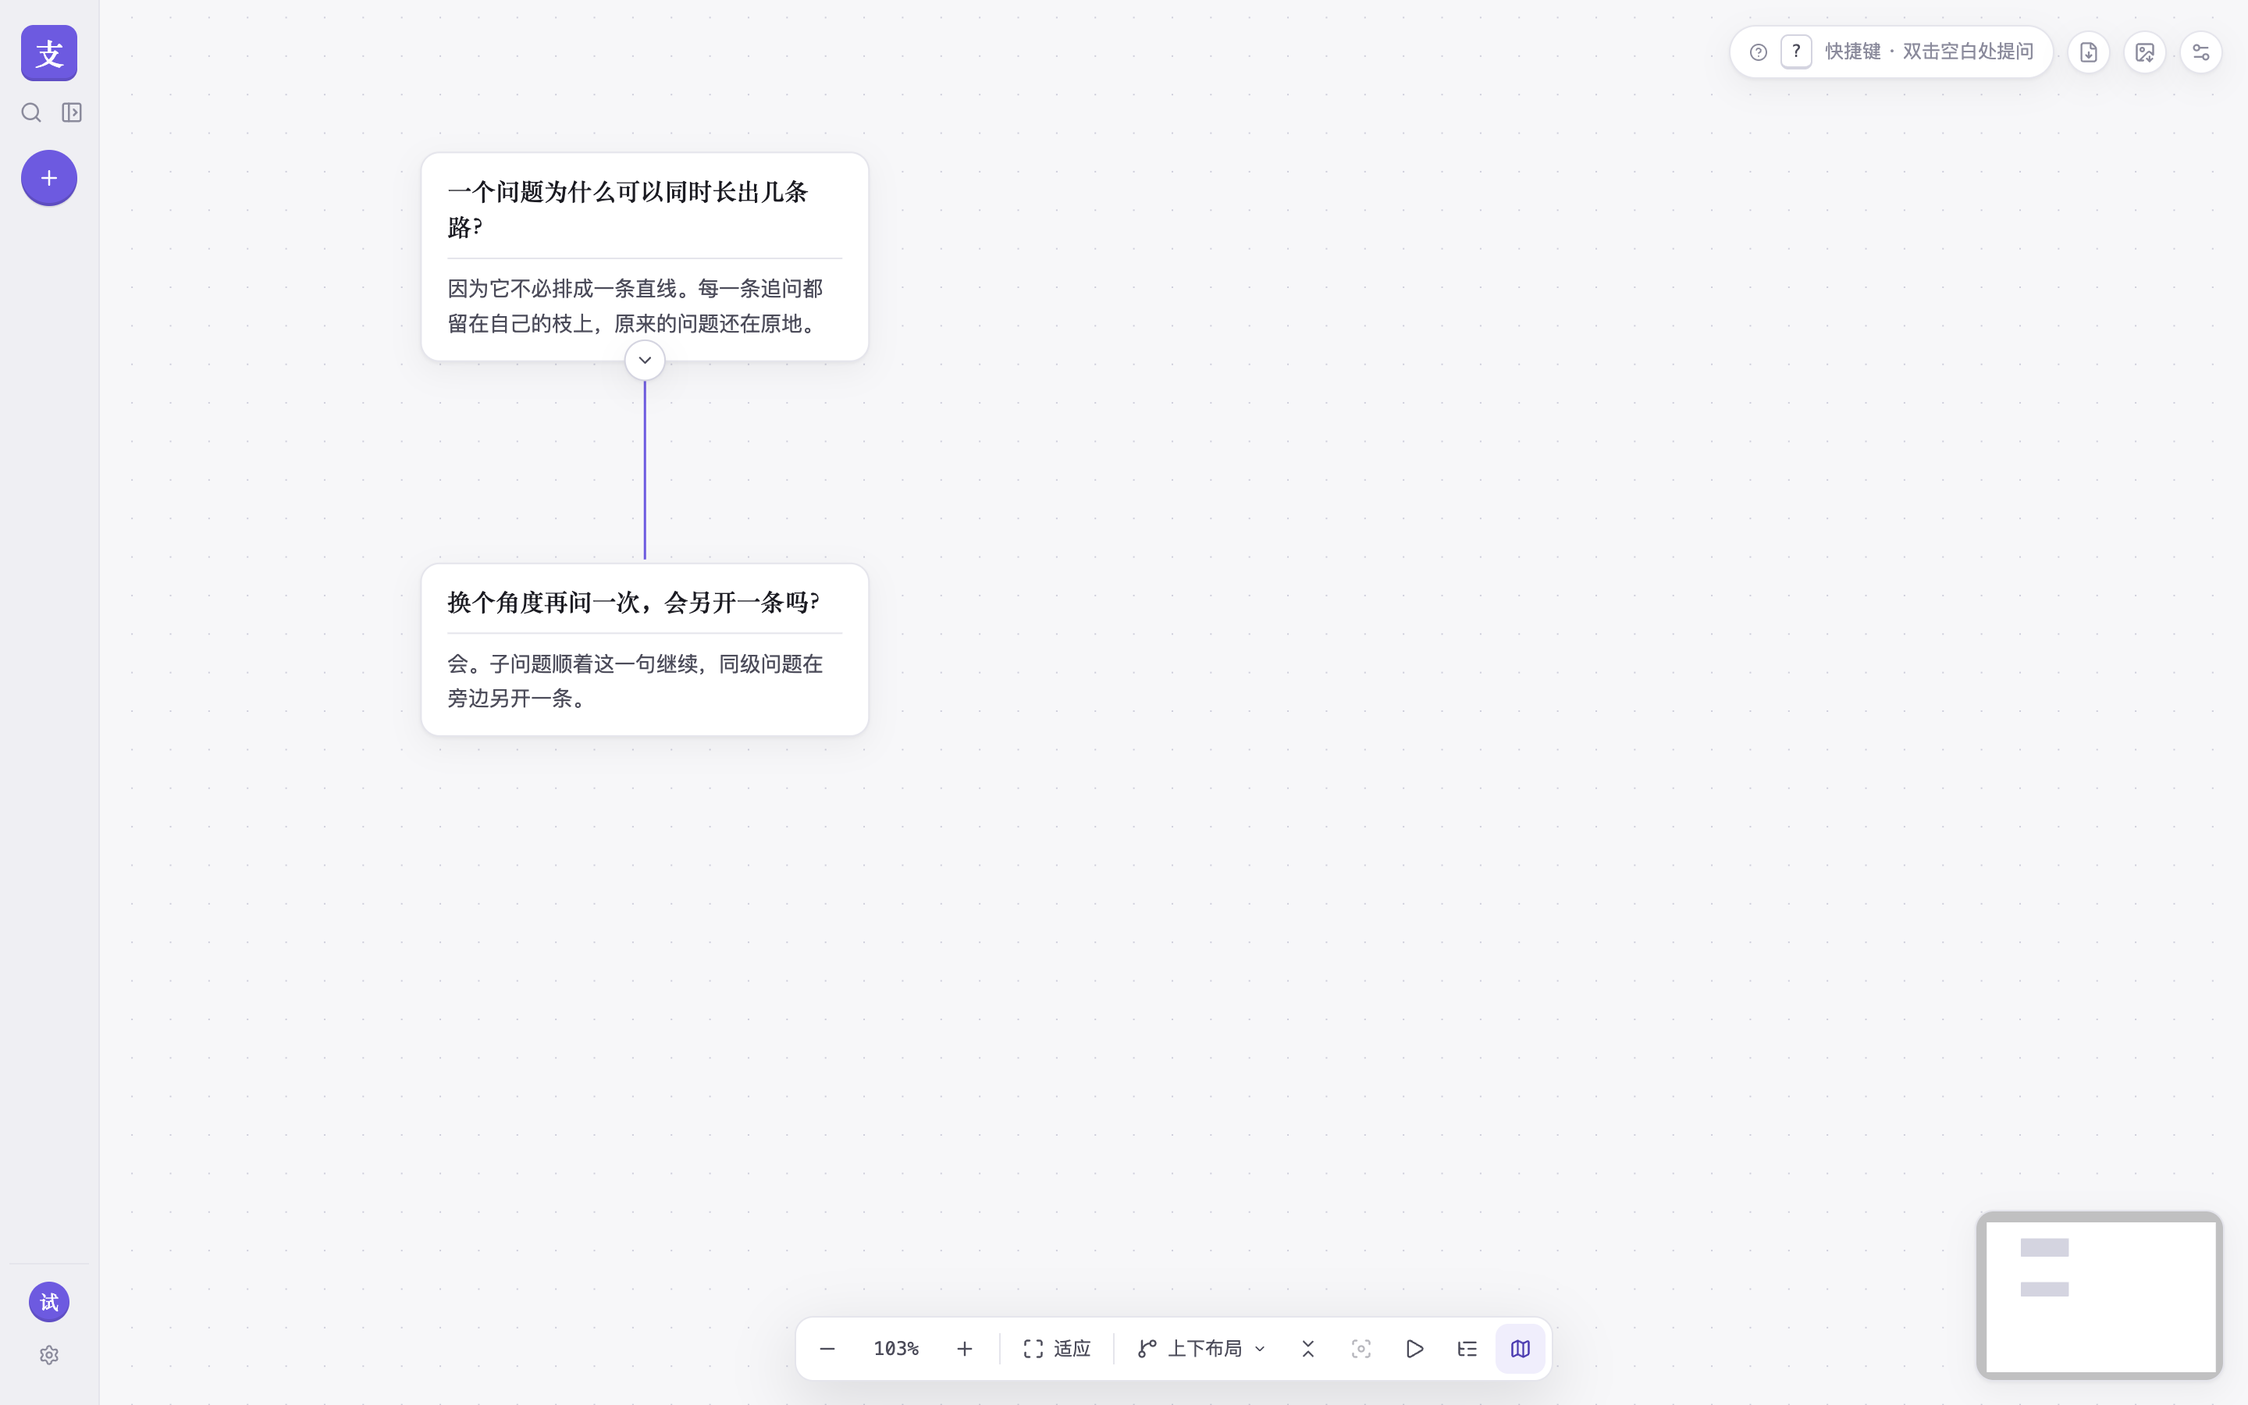
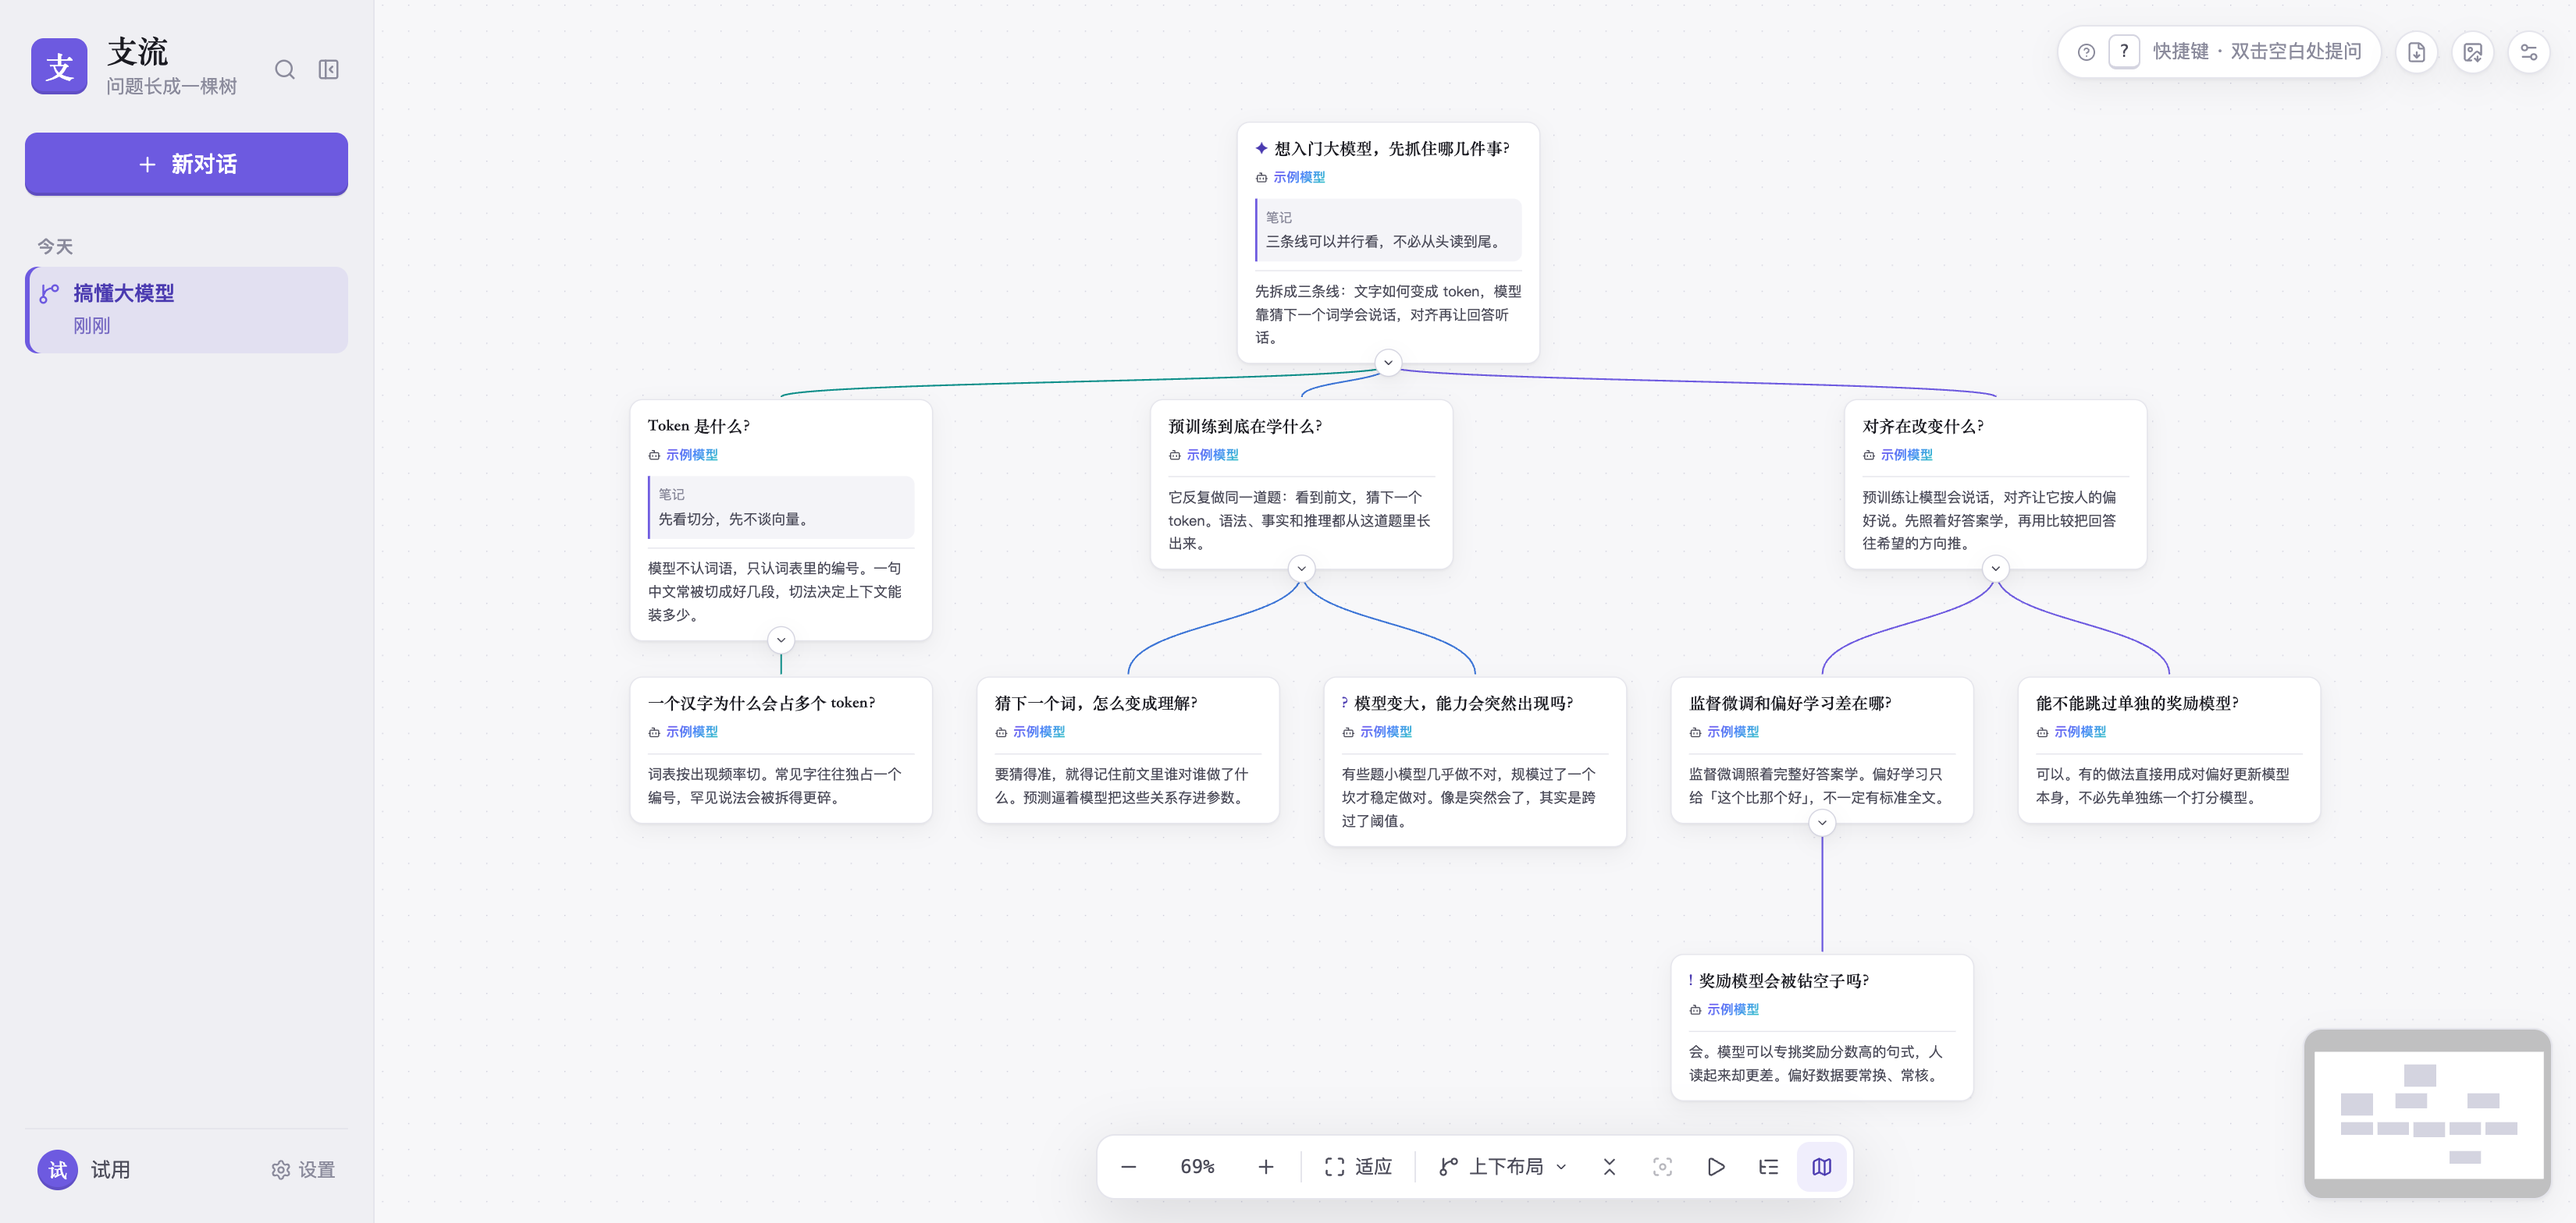
Show the branching model map on the product readme.

diff --git a/README.md b/README.md
@@ -21,7 +21,9 @@
 3. 选中一张卡片，添加子问题，顺着这一句继续问。也可以添加同级问题，在旁边另开一条。
 4. 不需要看整棵树的时候，把子树或回答收起；想继续看，再展开。
 
-![登录后的画板，父问题下面有一条子分支](docs/images/branching-map.png)
+![搞懂大模型：根问题拆成三条线，预训练和对齐又各自再长出追问](docs/images/branching-map.png)
+
+这张图是「搞懂大模型」。根问题的回答分成 token、预训练、对齐三条线，其中两条又继续向下分叉。卡片上能看到回答、笔记和标记，左侧列表里是这一张图。
 
 ## 接着看
 
